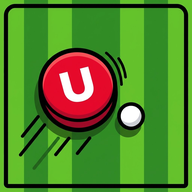
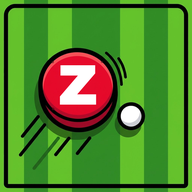
Yayın kopyasını güncelle
Claude-Session: https://claude.ai/code/session_01TahQP4X48iAmzDkr4cuR4K

Changed region(s): [[0.2812, 0.3125, 0.5312, 0.5625], [0.25, 0.3125, 0.2812, 0.3438]]

diff --git a/app.js b/app.js
@@ -233,7 +233,7 @@ function drawTut(){const d=G.drill,st=TUT[d.step];if(!st)return;const t=performa
   if(st.k==='dribble'||st.k==='goal'){const b=G.ball;ctx.strokeStyle='rgba(255,255,255,.7)';ctx.lineWidth=2;ctx.beginPath();ctx.arc(b.x,b.y,b.r+6+Math.sin(t*1.5)*2,0,Math.PI*2);ctx.stroke();}
 }
 function renderTutBox(){const box=$('tutBox');if(!box)return;box.hidden=!!prof.tut||!!NET.room;if(box.hidden)return;box.innerHTML='';
-  const t=document.createElement('span');t.textContent='Uzkball\'a hoş geldin! Oynamayı 1 dakikada öğren: hareket, top sürme, şut ve kamera.';
+  const t=document.createElement('span');t.textContent='Zkpball\'a hoş geldin! Oynamayı 1 dakikada öğren: hareket, top sürme, şut ve kamera.';
   const b=document.createElement('button');b.className='big';b.textContent='Eğitime başla';b.onclick=()=>startTut();
   const x=document.createElement('button');x.className='chip';x.textContent='Biliyorum, geç';x.onclick=()=>{prof.tut=1;save();renderTutBox();};box.append(t,b,x);}
 function drillNext(first){
@@ -937,9 +937,9 @@ function repSave(){
   try{const rec=new MediaRecorder(cv2.captureStream(30),type?{mimeType:type,videoBitsPerSecond:4e6}:undefined);const parts=[];
     rec.ondataavailable=e=>{if(e.data&&e.data.size)parts.push(e.data);};
     rec.onstop=async()=>{const blob=new Blob(parts,{type:rec.mimeType||'video/webm'});const ext=/mp4/.test(blob.type)?'mp4':'webm';
-      const file=new File([blob],`uzkball-gol-${RP.i+1}.${ext}`,{type:blob.type});
-      if(navigator.canShare&&navigator.canShare({files:[file]})){try{await navigator.share({files:[file],title:'Uzkball golü',text:'Şu gole bak! ⚽ uzkball'});$('repMsg').textContent='Paylaşıldı.';return;}catch(e){if(e&&e.name==='AbortError'){$('repMsg').textContent='';return;}}}
-      const a=document.createElement('a');a.href=URL.createObjectURL(blob);a.download=`uzkball-gol-${RP.i+1}.${ext}`;document.body.appendChild(a);a.click();setTimeout(()=>{URL.revokeObjectURL(a.href);a.remove();},4000);$('repMsg').textContent='Video hazır.';};
+      const file=new File([blob],`zkpball-gol-${RP.i+1}.${ext}`,{type:blob.type});
+      if(navigator.canShare&&navigator.canShare({files:[file]})){try{await navigator.share({files:[file],title:'Zkpball golü',text:'Şu gole bak! ⚽ zkpball.com'});$('repMsg').textContent='Paylaşıldı.';return;}catch(e){if(e&&e.name==='AbortError'){$('repMsg').textContent='';return;}}}
+      const a=document.createElement('a');a.href=URL.createObjectURL(blob);a.download=`zkpball-gol-${RP.i+1}.${ext}`;document.body.appendChild(a);a.click();setTimeout(()=>{URL.revokeObjectURL(a.href);a.remove();},4000);$('repMsg').textContent='Video hazır.';};
     RP.t=0;RP.play=true;RP.speed=1;repLabel();rec.start();RP.rec=rec;$('repMsg').textContent='Kaydediliyor… klip bitince iner.';}catch(e){$('repMsg').textContent='Video kaydedilemedi.';}
 }
 $('repClose').onclick=()=>{if(RP.rec){try{RP.rec.stop();}catch(e){}RP.rec=null;}$('repOv').hidden=true;$('repMsg').textContent='';};
@@ -1044,10 +1044,21 @@ const cleanCol=c=>/^#[0-9a-f]{6}$/i.test(c)?c:'#ffffff';
 const cleanKit=k=>{const o={p:cleanCol(k&&k.p),s:cleanCol(k&&k.s),pat:PATTERNS.some(x=>x[0]===(k&&k.pat))?k.pat:'solid'};const b=k&&k.badge;if(b&&BADGE_SH.includes(b.s)&&BADGE_IC.includes(b.i))o.badge={s:b.s,i:b.i};return o;};
 const BADGE_SH=['shield','circle','hex','star'],BADGE_IC=['⚽','🦅','🐺','🦁','⚡','🔥','👑','⭐','🐉','🌙','⚓','🗡'];
 
+// ---------- Alan adı taşıma: eski adres oyuncuyu hesabıyla birlikte zkpball.com'a gönderir ----------
+const NEW_HOME='https://zkpball.com',OLD_HOSTS=['xzuzu22.github.io'],MOVE_LIVE=false;
+(function moveHome(){if(!MOVE_LIVE||!OLD_HOSTS.includes(location.hostname))return;
+  let tok='',pj='';try{const k=Object.keys(localStorage).find(x=>/^sb-.*-auth-token$/.test(x));const v=k&&JSON.parse(localStorage.getItem(k));tok=v&&v.refresh_token||'';}catch(e){}
+  try{const p=localStorage.getItem('uzk-profile');if(p&&p.length<1500)pj=btoa(unescape(encodeURIComponent(p))).replace(/\+/g,'-').replace(/\//g,'_').replace(/=+$/,'');}catch(e){}
+  location.replace(NEW_HOME+'/'+(location.search||'')+(tok&&/^[A-Za-z0-9_\-.]+$/.test(tok)?'#mig='+tok+(pj?'&p='+pj:''):''));})();
 async function backendInit(){
   if(LIVE){
     const {createClient}=await import('https://cdn.jsdelivr.net/npm/@supabase/supabase-js@2.45.4/+esm');
     sb=createClient(CFG.supabaseUrl,CFG.supabaseAnonKey,{realtime:{params:{eventsPerSecond:40}}});
+    // eski adresten (xzuzu22.github.io) taşınan oyuncu: hesabını yeni adreste sürdür
+    const mg=/^#mig=([A-Za-z0-9_\-.]+)(?:&p=([A-Za-z0-9_\-]+))?/.exec(location.hash);
+    if(mg){history.replaceState(null,'',location.pathname+location.search);
+      try{if(mg[2]){const pj=JSON.parse(decodeURIComponent(escape(atob(mg[2].replace(/-/g,'+').replace(/_/g,'/')))));if(pj&&typeof pj==="object"){Object.assign(prof,pj);save();}}}catch(e){}
+      try{const r=await sb.auth.refreshSession({refresh_token:mg[1]});if(r.error)console.warn('taşıma oturumu açılamadı',r.error.message);}catch(e){}}
     let {data:{session}}=await sb.auth.getSession();
     if(!session){const r=await sb.auth.signInAnonymously();if(r.error)throw r.error;session=r.data.session;}
     uid=session.user.id;isAnon=!!session.user.is_anonymous;userEmail=session.user.email||'';
@@ -1533,7 +1544,7 @@ async function renderRanking(box){
   const me=sec.querySelector('.rme');
   me.textContent=d.me?`Senin sıran: ${d.me.pos}. (${d.total} oyuncu içinde) · ${d.me.rating} puan`:(MYR.g<5?`Sıralamaya girmek için ${5-MYR.g} maç daha oyna.`:'');
 }
-// Uzkball rütbe rozetleri (SVG). [orta, koyu, açık, işaret]
+// Zkpball rütbe rozetleri (SVG). [orta, koyu, açık, işaret]
 const RB={yeni:['#c3cec8','#6f7c75','#eef3f0','#5f6b65'],bronz:['#d98f55','#7d441a','#f6c79c','#6b3812'],gumus:['#dfe5ea','#7f8a95','#ffffff','#56616c'],
   altin:['#ffcf3a','#a87700','#fff1a8','#8a6200'],platin:['#5fdccd','#15786e','#d4fff9','#0f5f57'],elmas:['#7fb8ff','#2350c4','#e3f1ff','#1a3f9e'],usta:['#df8cff','#6c25a8','#fbe3ff','#5a1a8f']};
 var RBN=0;
@@ -2022,13 +2033,13 @@ async function openCard(){
   stats.forEach(([l,v],i)=>{const cx=W/2+((i%3)-1)*320,cy=1010+Math.floor(i/3)*150;g.fillStyle='rgba(255,255,255,.07)';g.beginPath();g.roundRect(cx-145,cy-70,290,130,22);g.fill();
     g.fillStyle='#fff';g.font='800 56px system-ui,sans-serif';g.fillText(String(v??0),cx,cy+5);g.fillStyle='rgba(255,255,255,.6)';g.font='600 28px system-ui,sans-serif';g.fillText(l.toLocaleUpperCase('tr-TR'),cx,cy+45);});
   const rw=(typeof MYREW!=='undefined'?MYREW:[]).map(r=>TIERS[r.tier]&&TIERS[r.tier].i).filter(Boolean).slice(0,8).join(' ');
-  g.font='600 34px system-ui,sans-serif';g.fillStyle='rgba(255,255,255,.75)';g.fillText((rw?rw+'  ·  ':'')+'xzuzu22.github.io',W/2,H-80);
+  g.font='600 34px system-ui,sans-serif';g.fillStyle='rgba(255,255,255,.75)';g.fillText((rw?rw+'  ·  ':'')+'zkpball.com',W/2,H-80);
   c.toBlob(b=>{CARD_BLOB=b;$('cardImg').src=URL.createObjectURL(b);$('cardMsg').textContent='Arkadaşlarına gönder, sende kaç gol var görsünler!';
-    const f=new File([b],'uzkball-kartim.png',{type:'image/png'});$('cardShare').hidden=!(navigator.canShare&&navigator.canShare({files:[f]}));},'image/png');
+    const f=new File([b],'zkpball-kartim.png',{type:'image/png'});$('cardShare').hidden=!(navigator.canShare&&navigator.canShare({files:[f]}));},'image/png');
 }
 $('cardClose').onclick=()=>{$('cardOv').hidden=true;};
-$('cardDl').onclick=()=>{if(!CARD_BLOB)return;const a=document.createElement('a');a.href=URL.createObjectURL(CARD_BLOB);a.download='uzkball-kartim.png';document.body.appendChild(a);a.click();setTimeout(()=>{URL.revokeObjectURL(a.href);a.remove();},3000);};
-$('cardShare').onclick=async()=>{if(!CARD_BLOB)return;const f=new File([CARD_BLOB],'uzkball-kartim.png',{type:'image/png'});try{await navigator.share({files:[f],title:'Uzkball oyuncu kartım',text:'Uzkball\'da benimle maç yap! ⚽'});}catch(e){}};
+$('cardDl').onclick=()=>{if(!CARD_BLOB)return;const a=document.createElement('a');a.href=URL.createObjectURL(CARD_BLOB);a.download='zkpball-kartim.png';document.body.appendChild(a);a.click();setTimeout(()=>{URL.revokeObjectURL(a.href);a.remove();},3000);};
+$('cardShare').onclick=async()=>{if(!CARD_BLOB)return;const f=new File([CARD_BLOB],'zkpball-kartim.png',{type:'image/png'});try{await navigator.share({files:[f],title:'Zkpball oyuncu kartım',text:'Zkpball\'da benimle maç yap! ⚽'});}catch(e){}};
 
 // ---------- Telefon bildirimleri (Web Push) ----------
 const PUSH_KINDS=[['league','Lig maçı teklifleri ve maç saati hatırlatması'],['invite','Arkadaşından maç daveti'],['cup','Hafta sonu kupası başlıyor'],['friend','Arkadaşlık isteği']];
@@ -2045,7 +2056,7 @@ async function enablePush(){
 async function renderPush(){
   const box=$('pushBox');if(!box)return;box.innerHTML='';const note=t=>{const p=document.createElement('p');p.className='note';p.textContent=t;box.appendChild(p);return p;};
   const ok='serviceWorker' in navigator&&'PushManager' in window&&'Notification' in window;
-  if(isIOS&&!isStandalone()){note('iPhone/iPad\'de bildirim almak için önce Uzkball\'u ana ekrana ekle: Safari\'de Paylaş ⬆ → "Ana Ekrana Ekle". Sonra ana ekrandaki simgeden açıp buradan bildirimleri aç.');return;}
+  if(isIOS&&!isStandalone()){note('iPhone/iPad\'de bildirim almak için önce Zkpball\'u ana ekrana ekle: Safari\'de Paylaş ⬆ → "Ana Ekrana Ekle". Sonra ana ekrandaki simgeden açıp buradan bildirimleri aç.');return;}
   if(!ok){note('Bu tarayıcı telefon bildirimlerini desteklemiyor. Chrome, Edge, Firefox ya da ana ekrana eklenmiş Safari kullan.');return;}
   if(location.protocol!=='https:'&&location.hostname!=='localhost'){note('Bildirimler yalnızca güvenli bağlantıda (https) çalışır.');return;}
   let sub=null;try{sub=await pushSub();}catch(e){}

diff --git a/index.html b/index.html
@@ -3,8 +3,8 @@
 <head>
 <meta charset="utf-8">
 <meta name="viewport" content="width=device-width,initial-scale=1,maximum-scale=1,user-scalable=no,viewport-fit=cover">
-<title>Uzkball</title>
-<meta name="description" content="Uzkball: tarayıcıda oynanan, takım ve lig sistemli çevrimiçi futbol oyunu.">
+<title>Zkpball</title>
+<meta name="description" content="Zkpball: tarayıcıda oynanan, takım ve lig sistemli çevrimiçi futbol oyunu.">
 <link rel="icon" href="assets/icon.png">
 <link rel="apple-touch-icon" href="assets/icon-192.png">
 <link rel="manifest" href="manifest.webmanifest">
@@ -12,17 +12,17 @@
 <meta name="apple-mobile-web-app-capable" content="yes">
 <meta name="mobile-web-app-capable" content="yes">
 <meta name="apple-mobile-web-app-status-bar-style" content="black-translucent">
-<meta name="apple-mobile-web-app-title" content="Uzkball">
+<meta name="apple-mobile-web-app-title" content="Zkpball">
 <link rel="preconnect" href="https://fonts.googleapis.com">
 <link rel="stylesheet" href="https://fonts.googleapis.com/css2?family=Saira+Condensed:wght@600;800&family=Inter:wght@400;600;700&display=swap">
-<link rel="stylesheet" href="style.css?v=af3a35c">
+<link rel="stylesheet" href="style.css?v=29b1662">
 </head>
 <body>
 
 <!-- GİRİŞ -->
 <section class="screen" id="gate">
   <div class="gate">
-    <img class="logo" src="assets/logo.webp" alt="Uzkball" width="747" height="200">
+    <img class="logo" src="assets/logo.webp" alt="Zkpball" width="1103" height="200">
     <form class="panel" id="gateForm">
       <div class="row" style="flex-wrap:nowrap"><div class="field" style="flex:1 1 0"><label class="lbl" for="gNick">Takma adını seç</label><input type="text" id="gNick" maxlength="14" autocomplete="nickname" placeholder="örn. Torriq"></div><div class="field" style="flex:0 0 82px"><label class="lbl" for="gNum">Forma no</label><input type="number" id="gNum" min="1" max="99" inputmode="numeric" placeholder="10"></div></div>
       <p class="note" style="margin:-4px 0 0">Forma numaranı şimdi ücretsiz seçiyorsun. Sonra değiştirmek için forma değiştirme kartı gerekir (1 tane hediye).</p>
@@ -38,7 +38,7 @@
 <section class="screen" id="main" hidden>
   <div class="wrap wide">
     <div class="topbar">
-      <img src="assets/logo.webp" alt="Uzkball" width="150" height="40">
+      <img src="assets/logo.webp" alt="Zkpball" width="220" height="40">
       <span class="netdot" id="netState">bağlanıyor</span><span class="tag" id="onlineCount"></span>
       <button class="me ghost" id="meChip" style="padding:6px 10px"><span class="av" id="meAv"></span><span id="meNick"></span></button>
     </div>
@@ -55,7 +55,7 @@
       <div class="panel rejoin tutbox" id="tutBox" hidden></div>
       <div class="install" id="installBox" hidden>
         <img src="assets/icon-192.png" alt="" width="44" height="44">
-        <div class="itxt"><b>Uzkball'u uygulama olarak ekle</b><span>Ana ekrandan açılır: tam ekran, adres çubuğu yok, daha akıcı.</span></div>
+        <div class="itxt"><b>Zkpball'u uygulama olarak ekle</b><span>Ana ekrandan açılır: tam ekran, adres çubuğu yok, daha akıcı.</span></div>
         <button class="big" id="installBtn" type="button">Ana ekrana ekle</button>
         <button class="ghost" id="installLater" type="button" aria-label="Şimdi değil">✕</button>
       </div>
@@ -313,12 +313,12 @@
     <li>Listede <b>Ana Ekrana Ekle</b>'yi seç.</li>
     <li>Sağ üstteki <b>Ekle</b>'ye dokun.</li>
   </ol>
-  <p class="note">Sonra Uzkball'u ana ekrandaki simgesinden aç. Telefonu yan çevirince oyun tam ekran açılır.</p>
+  <p class="note">Sonra Zkpball'u ana ekrandaki simgesinden aç. Telefonu yan çevirince oyun tam ekran açılır.</p>
   <button class="big" id="iosInstallOk" type="button">Tamam</button>
 </div></div>
 <div class="overlay statov" id="statOv" hidden><div class="panel" id="statBody"></div></div>
 
-<script type="module" src="app.js?v=af3a35c"></script>
+<script type="module" src="app.js?v=29b1662"></script>
 <div class="invtoast" id="invToast" hidden></div>
 <div class="afktoast" id="afkToast" hidden></div>
 <div class="overlay adminov" id="adminOv" hidden><div class="panel adminpanel"><div class="row" style="justify-content:space-between;align-items:center"><b class="admtitle">Yönetici paneli</b><button class="chip" id="adminClose">Kapat</button></div><div id="adminBody"></div></div></div>

diff --git a/sw.js b/sw.js
@@ -1,4 +1,4 @@
-// Uzkball: uygulama kabuğunu önbelleğe alır; ağ varsa her zaman yenisini kullanır.
+// Zkpball: uygulama kabuğunu önbelleğe alır; ağ varsa her zaman yenisini kullanır.
 const C='uzk-v4';
 const SHELL=['./','index.html','style.css','app.js','config.js','manifest.webmanifest','assets/logo.webp','assets/bg.jpg','assets/icon-192.png','assets/premium.webp','assets/tier1.webp','assets/tier2.webp','assets/tier3.webp','assets/tier4.webp','assets/tier5.webp','assets/tier6.webp'];
 self.addEventListener('install',e=>{e.waitUntil(caches.open(C).then(c=>c.addAll(SHELL)).then(()=>self.skipWaiting()));});
@@ -9,6 +9,6 @@ self.addEventListener('fetch',e=>{const u=new URL(e.request.url);if(e.request.me
 
 // Telefon bildirimleri
 self.addEventListener('push',e=>{let d={};try{d=e.data?e.data.json():{};}catch(_){d={body:e.data&&e.data.text()};}
-  e.waitUntil(self.registration.showNotification(d.title||'Uzkball',{body:d.body||'',icon:'assets/icon-192.png',badge:'assets/icon-192.png',tag:d.tag||'uzk',renotify:true,data:{url:d.url||'./'},vibrate:[120,60,120]}));});
+  e.waitUntil(self.registration.showNotification(d.title||'Zkpball',{body:d.body||'',icon:'assets/icon-192.png',badge:'assets/icon-192.png',tag:d.tag||'uzk',renotify:true,data:{url:d.url||'./'},vibrate:[120,60,120]}));});
 self.addEventListener('notificationclick',e=>{e.notification.close();const url=new URL((e.notification.data&&e.notification.data.url)||'./',self.registration.scope).href;
   e.waitUntil(self.clients.matchAll({type:'window',includeUncontrolled:true}).then(cs=>{for(const c of cs){if(c.url.startsWith(self.registration.scope)&&'focus' in c){c.postMessage({uzkOpen:url});return c.focus();}}return self.clients.openWindow(url);}));});

diff --git a/gizlilik.html b/gizlilik.html
@@ -3,7 +3,7 @@
 <head>
 <meta charset="utf-8">
 <meta name="viewport" content="width=device-width,initial-scale=1,viewport-fit=cover">
-<title>Gizlilik ve Çerezler · Uzkball</title>
+<title>Gizlilik ve Çerezler · Zkpball</title>
 <link rel="icon" href="assets/icon.png">
 <link rel="stylesheet" href="https://fonts.googleapis.com/css2?family=Saira+Condensed:wght@800&family=Inter:wght@400;600;700&display=swap">
 <style>
@@ -24,7 +24,7 @@ a{color:var(--acc)}
 <h1>Gizlilik ve çerezler</h1>
 <p class="muted">Son güncelleme: 18 Kasım 2026</p>
 
-<p>Bu metin, Uzkball'u oynarken hangi bilgilerin işlendiğini 6698 sayılı Kişisel Verilerin Korunması Kanunu (KVKK) kapsamında açıklar.</p>
+<p>Bu metin, Zkpball'u oynarken hangi bilgilerin işlendiğini 6698 sayılı Kişisel Verilerin Korunması Kanunu (KVKK) kapsamında açıklar.</p>
 
 <h2>Veri sorumlusu</h2>
 <p><span class="todo">[İşletici adı / şirket unvanı]</span> · İletişim: <span class="todo">[e-posta adresi]</span></p>
